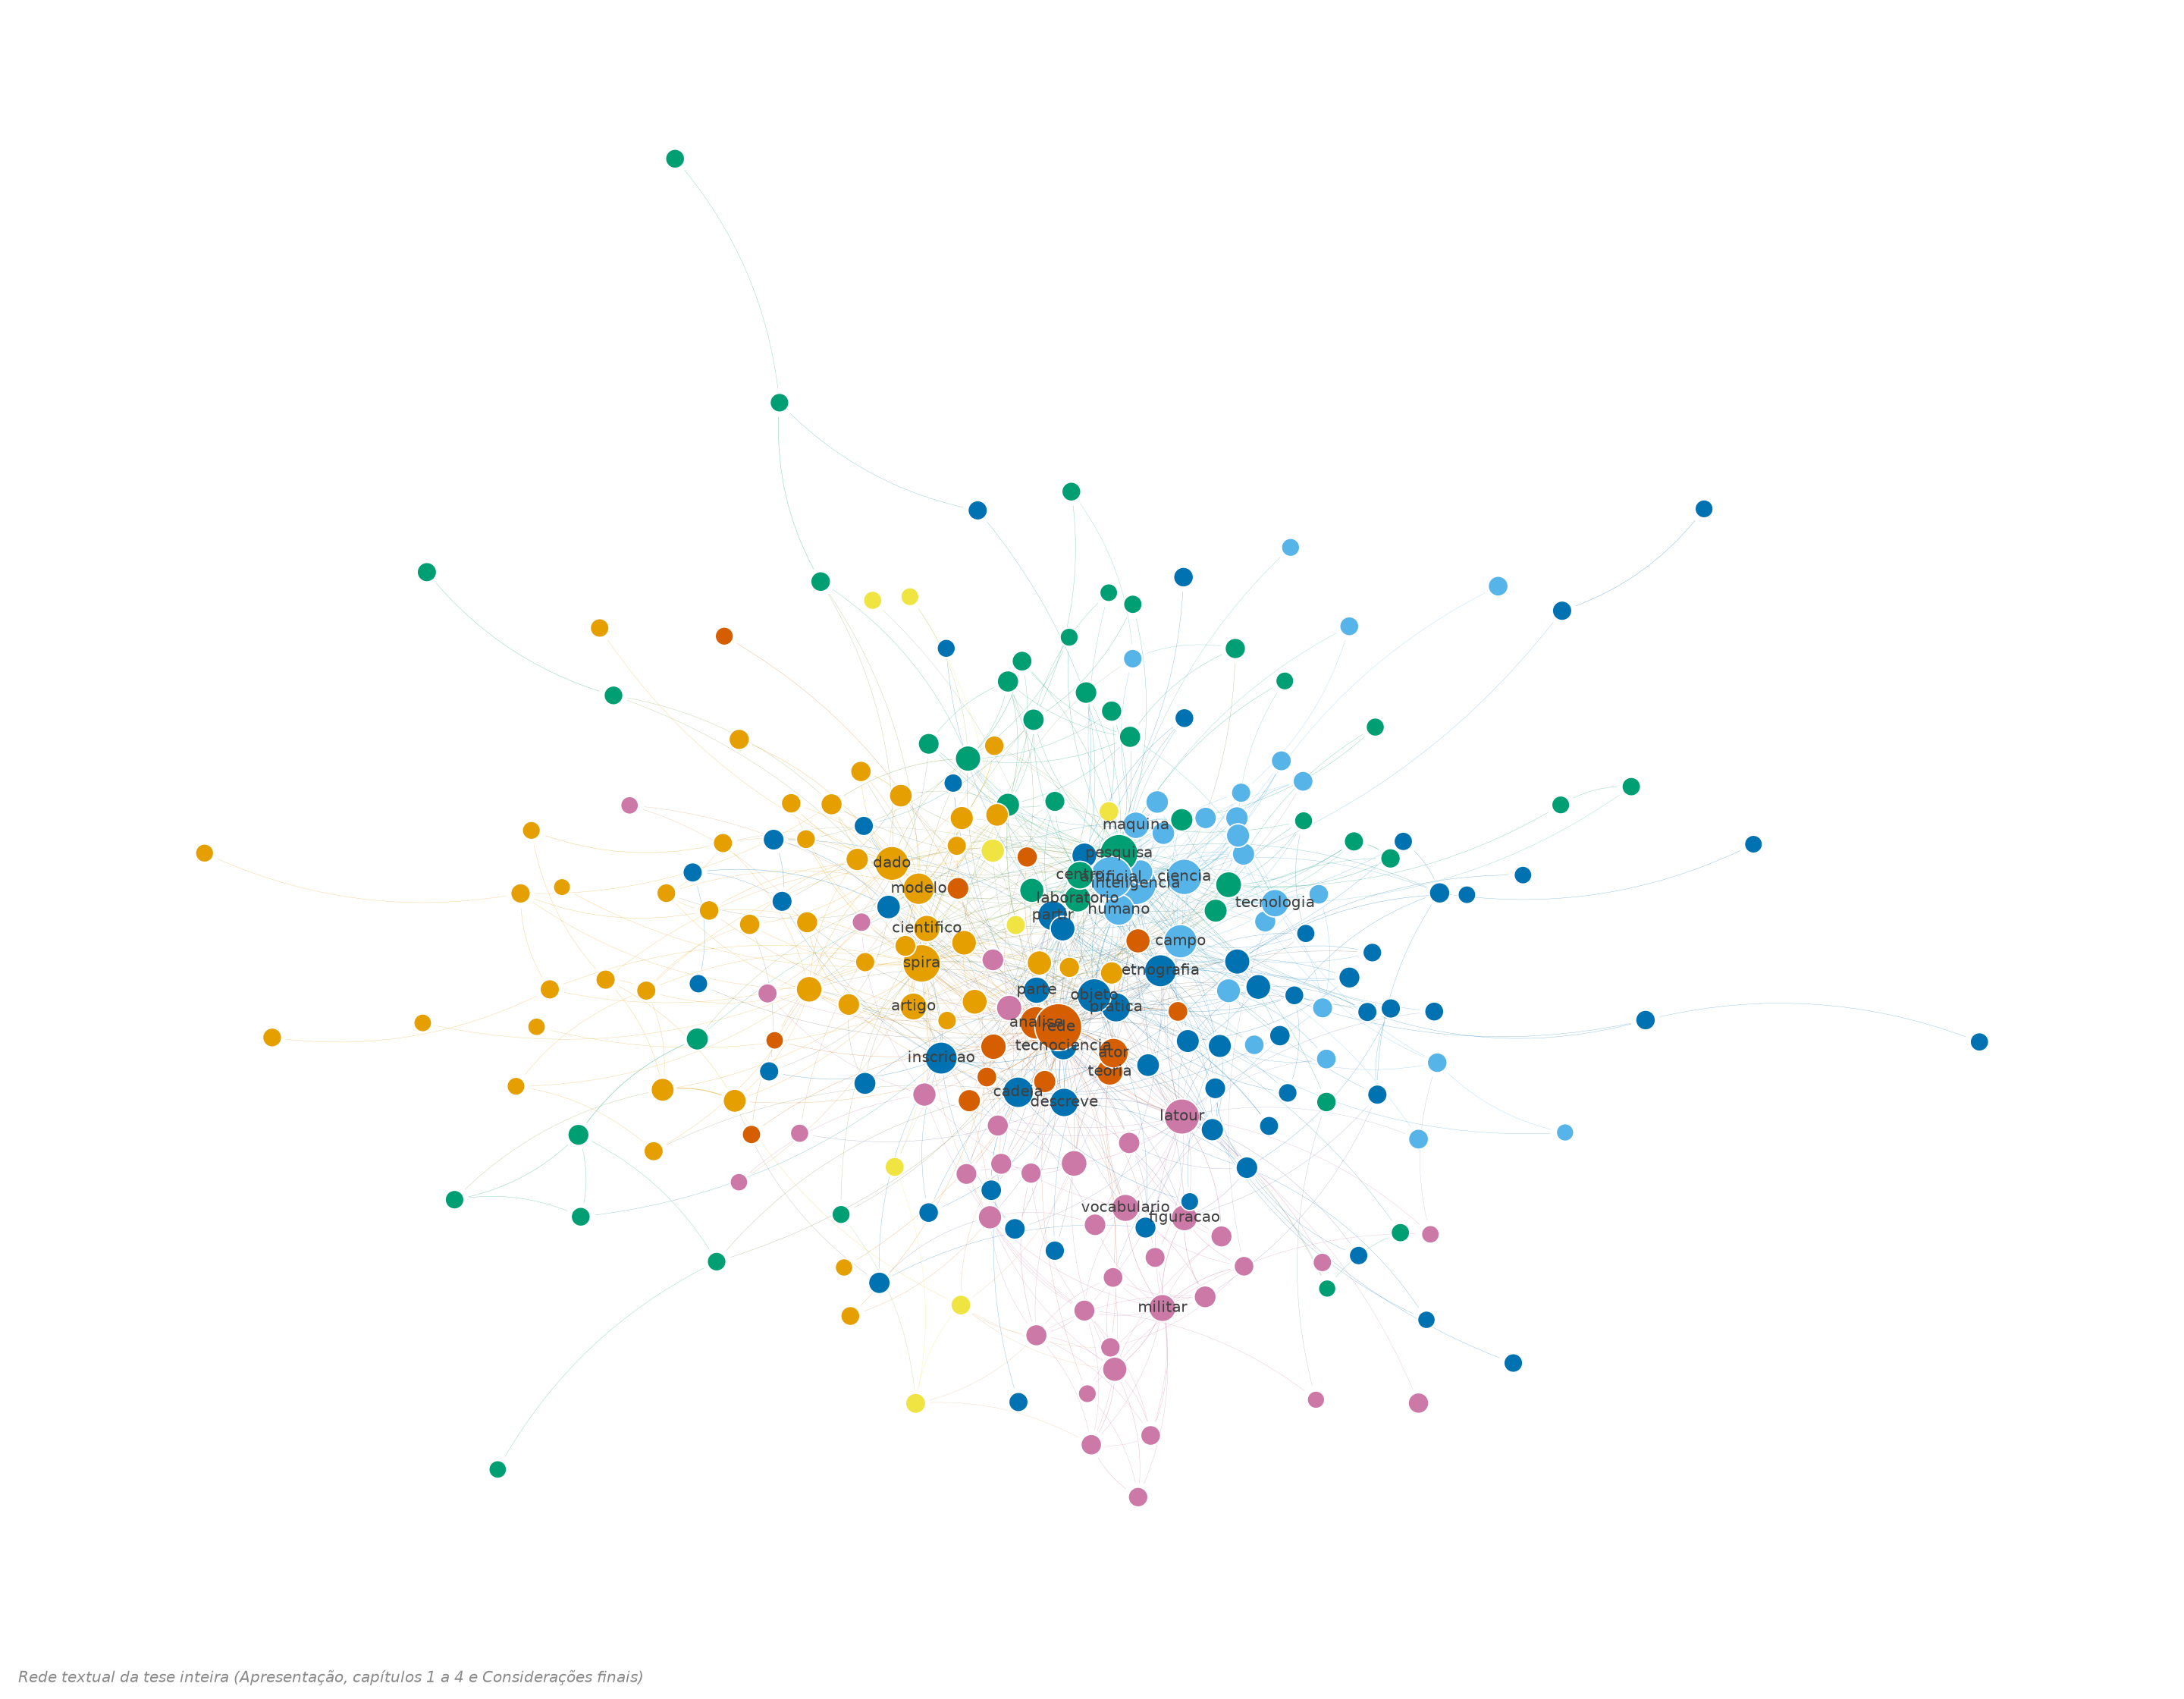
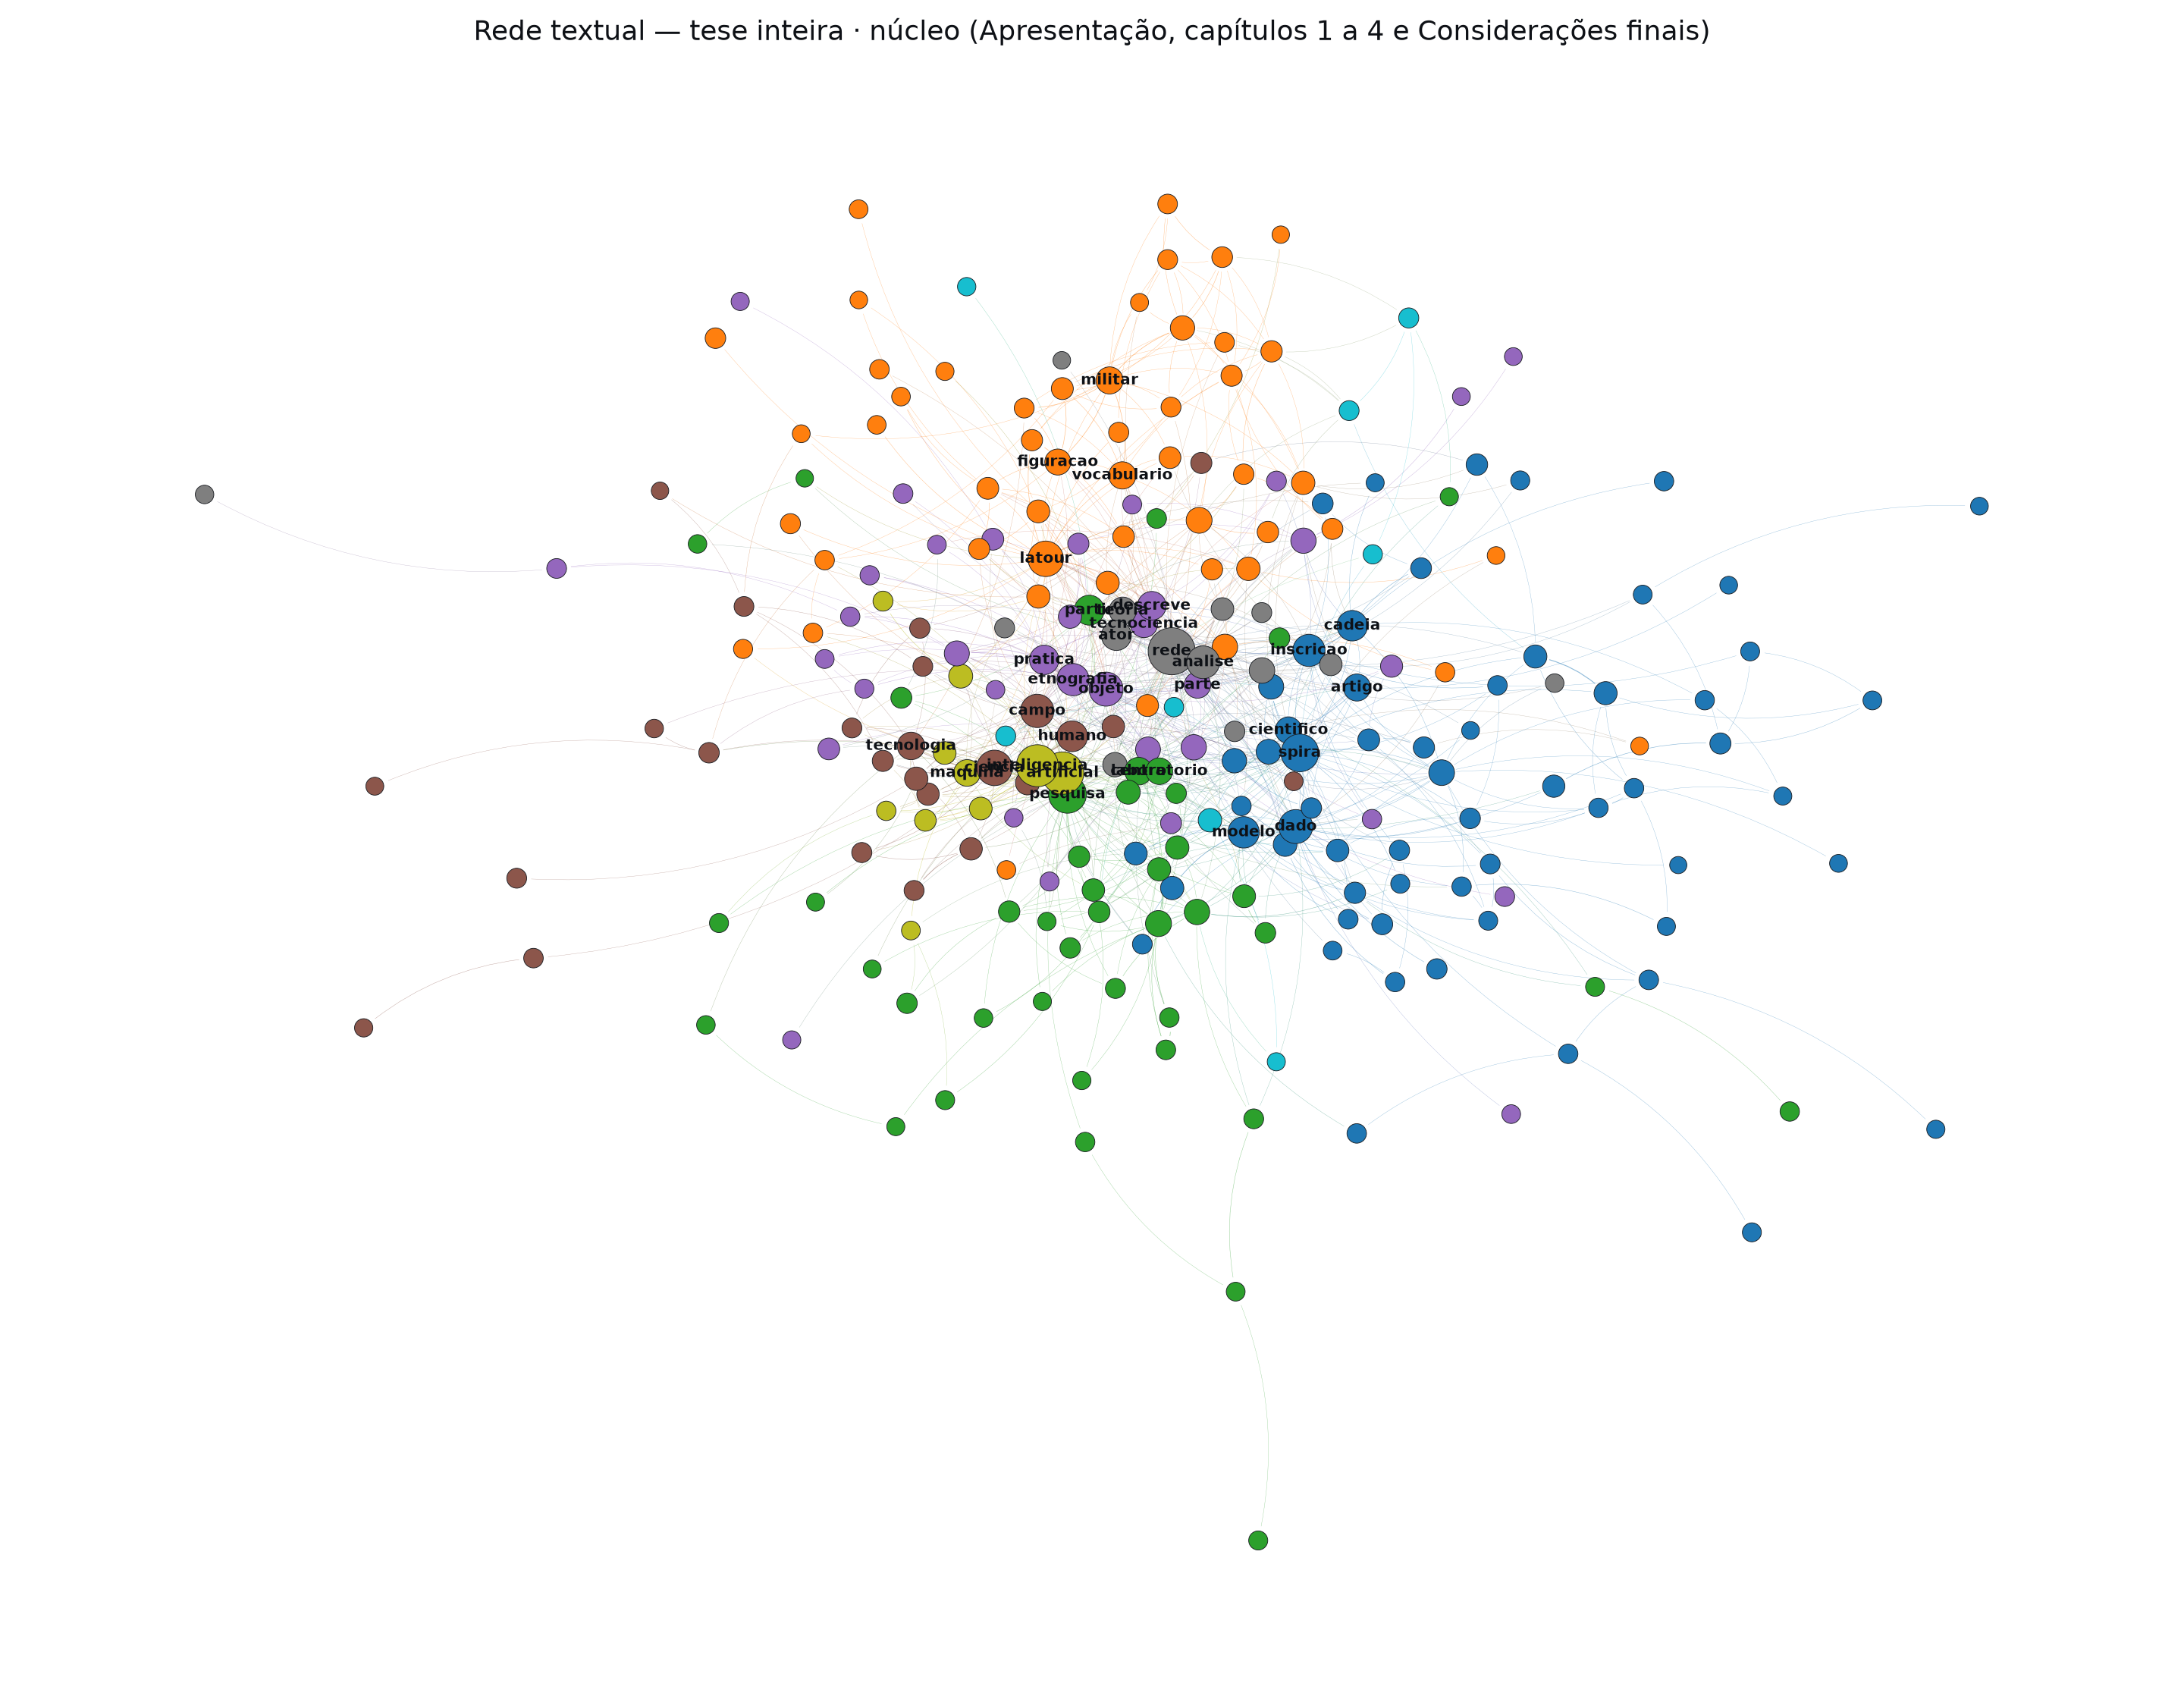
conclusões: figura da rede da tese inteira com a identidade visual dos capítulos
Regenera figuras/rede_tese_inteira.png pelo render_network deste
repositório (paleta tab10 e arestas curvas coloridas), de modo que a
figura das Considerações finais partilha a identidade das figuras dos
capítulos, em vez da paleta do site. Adiciona o gerador
render_tese_network_figura.py e atualiza tese_network.json a partir do
texto atual (Apresentação + caps 1-4 + Considerações finais).

Ajusta a prosa das Conclusões: remove a contagem fixa de comunidades
(a partição de menor granularidade oscila), mantendo a leitura no nível
das famílias temáticas.

Claude-Session: https://claude.ai/code/session_01X4xopz3uTkQDtWf6f2DH2h

diff --git a/infranodus/render_tese_network_figura.py b/infranodus/render_tese_network_figura.py
@@ -1,0 +1,81 @@
+#!/usr/bin/env python3
+# -*- coding: utf-8 -*-
+"""
+render_tese_network_figura.py
+=============================
+Gera a figura estática da rede textual da TESE INTEIRA a partir de
+``tese_network.json`` (o mesmo grafo que a capa do site renderiza de forma
+interativa), reaproveitando o ``render_network`` deste repositório, de modo
+que a figura das Considerações finais compartilha a identidade visual das
+figuras dos capítulos: mesma paleta de comunidades e arestas arqueadas
+coloridas pela mistura das cores das pontas.
+
+Saída:
+    figuras/rede_tese_inteira.png
+
+Uso:
+    python3 infranodus/render_tese_network_figura.py
+    (rode antes tese_network.py --source-root .. para atualizar o JSON)
+"""
+from __future__ import annotations
+
+import json
+from pathlib import Path
+
+import networkx as nx
+
+from infranodus_cap1 import render_network
+
+THIS_DIR = Path(__file__).resolve().parent
+REPO_ROOT = THIS_DIR.parent
+
+# Poda de legibilidade da versão impressa: o grafo interativo do site
+# suporta todas as arestas; em papel, mantenho as de peso mais alto.
+MIN_EDGE_WEIGHT = 15
+
+
+def carregar_grafo(json_path: Path):
+    data = json.loads(json_path.read_text(encoding="utf-8"))
+    nodes, edges, comunidades = data["nodes"], data["edges"], data["communities"]
+
+    G = nx.Graph()
+    for n in nodes:
+        G.add_node(n["id"], freq=n.get("freq", 0))
+    for e in edges:
+        G.add_edge(e["s"], e["t"], weight=float(e["w"]), npmi=float(e.get("npmi", 0.0)))
+
+    deg = {n["id"]: float(n.get("degree", 0.0)) for n in nodes}
+
+    id_por_comm: dict[int, set[str]] = {}
+    for n in nodes:
+        id_por_comm.setdefault(int(n["community"]), set()).add(n["id"])
+    ordem = [int(c["id"]) for c in sorted(comunidades, key=lambda z: z.get("size", 0),
+                                          reverse=True)]
+    comms = [id_por_comm.get(cid, set()) for cid in ordem if id_por_comm.get(cid)]
+    return G, comms, deg
+
+
+def main() -> None:
+    json_path = THIS_DIR / "tese_network.json"
+    if not json_path.exists():
+        raise FileNotFoundError(
+            f"{json_path} não existe. Rode antes tese_network.py --source-root .."
+        )
+    G, comms, deg = carregar_grafo(json_path)
+
+    G.remove_edges_from([(u, v) for u, v, d in G.edges(data=True)
+                         if d["weight"] < MIN_EDGE_WEIGHT])
+    G.remove_nodes_from(list(nx.isolates(G)))
+
+    out = REPO_ROOT / "figuras" / "rede_tese_inteira.png"
+    out.parent.mkdir(parents=True, exist_ok=True)
+    render_network(G, comms, deg, out,
+                   title="Rede textual — tese inteira · núcleo (Apresentação, "
+                         "capítulos 1 a 4 e Considerações finais)",
+                   label_top=32)
+    print(f"Figura gerada: {out} "
+          f"({G.number_of_nodes()} nós, {G.number_of_edges()} arestas)")
+
+
+if __name__ == "__main__":
+    main()

diff --git a/ex_cap5.tex b/ex_cap5.tex
@@ -44,7 +44,7 @@ A pergunta sobre o que a aceleração faz ao pensar tem, na minha experiência, 
 
 Pergunto-me, por fim, se esta tese resistirá ao tempo. Na sua integridade, ela não cabe no papel: o texto está no \texttt{Overleaf}, sincronizado ao \texttt{GitHub}, sincronizado ao site que a apresenta em outra grafia, e essas ramificações, que costurei junto ao \texttt{claude code}, vivem ao mesmo tempo na minha máquina, na nuvem da \texttt{Google}, nos servidores do \texttt{Overleaf} e do \texttt{GitHub}, e talvez, codificada em algum formato, em disco externo. A tese é, ela mesma, a rede distribuída e dependente de infraestrutura que descrevi no \texttt{C4AI}, e partilha com ele a sua condição: como sustentei ao longo da tese, uma rede não é forte por ser extensa, pois a cada ponto a mais é um elo a mais a manter, e a cada relação a mais é mais uma relação para sustentar. Esta tese existe enquanto as suas conexões forem mantidas. Esse é o custo da relação que sustento desde o início: quanto mais associações eu teço, e quanto maiores elas são, mais frágil é o todo que delas depende.
 
-Detenho-me, antes de encerrar, uma última vez sobre a tese como rede, agora no sentido literal da análise de rede textual que apliquei capítulo a capítulo e que, ao fim, apliquei também ao texto inteiro. Reunidos em um só grafo de co-ocorrência os termos da Apresentação às Considerações finais, os 260 mais frequentes se distribuem em sete comunidades que o algoritmo de Louvain \parencite{Blondel2008Louvain} detecta sobre a rede construída por co-ocorrência \parencite{paranyushkin2019infranodus}, e que reconheço, uma a uma, como as regiões do meu próprio percurso: a etnografia e o método, o \texttt{Spira}, o arranjo do \texttt{C4AI}, as figurações e a genealogia militar, a inteligência artificial como objeto, a teoria ator-rede e o panorama bibliométrico do campo (figura~\ref{fig:infranodus-tese}). Os cortes que fiz capítulo a capítulo, no sentido de \textcite{strathern2011cortando}, deixaram no grafo da tese inteira a sua marca lexical, e cada um dos objetos que enactei, no sentido de \textcite{mol2002body}, reaparece aqui como uma comunidade de termos.
+Detenho-me, antes de encerrar, uma última vez sobre a tese como rede, agora no sentido literal da análise de rede textual que apliquei capítulo a capítulo e que, ao fim, apliquei também ao texto inteiro. Reunidos em um só grafo de co-ocorrência os termos da Apresentação às Considerações finais, os 260 mais frequentes se distribuem em comunidades que o algoritmo de Louvain \parencite{Blondel2008Louvain} detecta sobre a rede construída por co-ocorrência \parencite{paranyushkin2019infranodus}, e que reconheço como as regiões do meu próprio percurso: a etnografia e o método, o \texttt{Spira}, o arranjo do \texttt{C4AI}, as figurações e a genealogia militar, a inteligência artificial como objeto, a teoria ator-rede e o panorama bibliométrico do campo (figura~\ref{fig:infranodus-tese}). Os cortes que fiz capítulo a capítulo, no sentido de \textcite{strathern2011cortando}, deixaram no grafo da tese inteira a sua marca lexical, e cada um dos objetos que enactei, no sentido de \textcite{mol2002body}, reaparece aqui como uma comunidade de termos.
 
 \begin{figure}[!htb]
 \centering